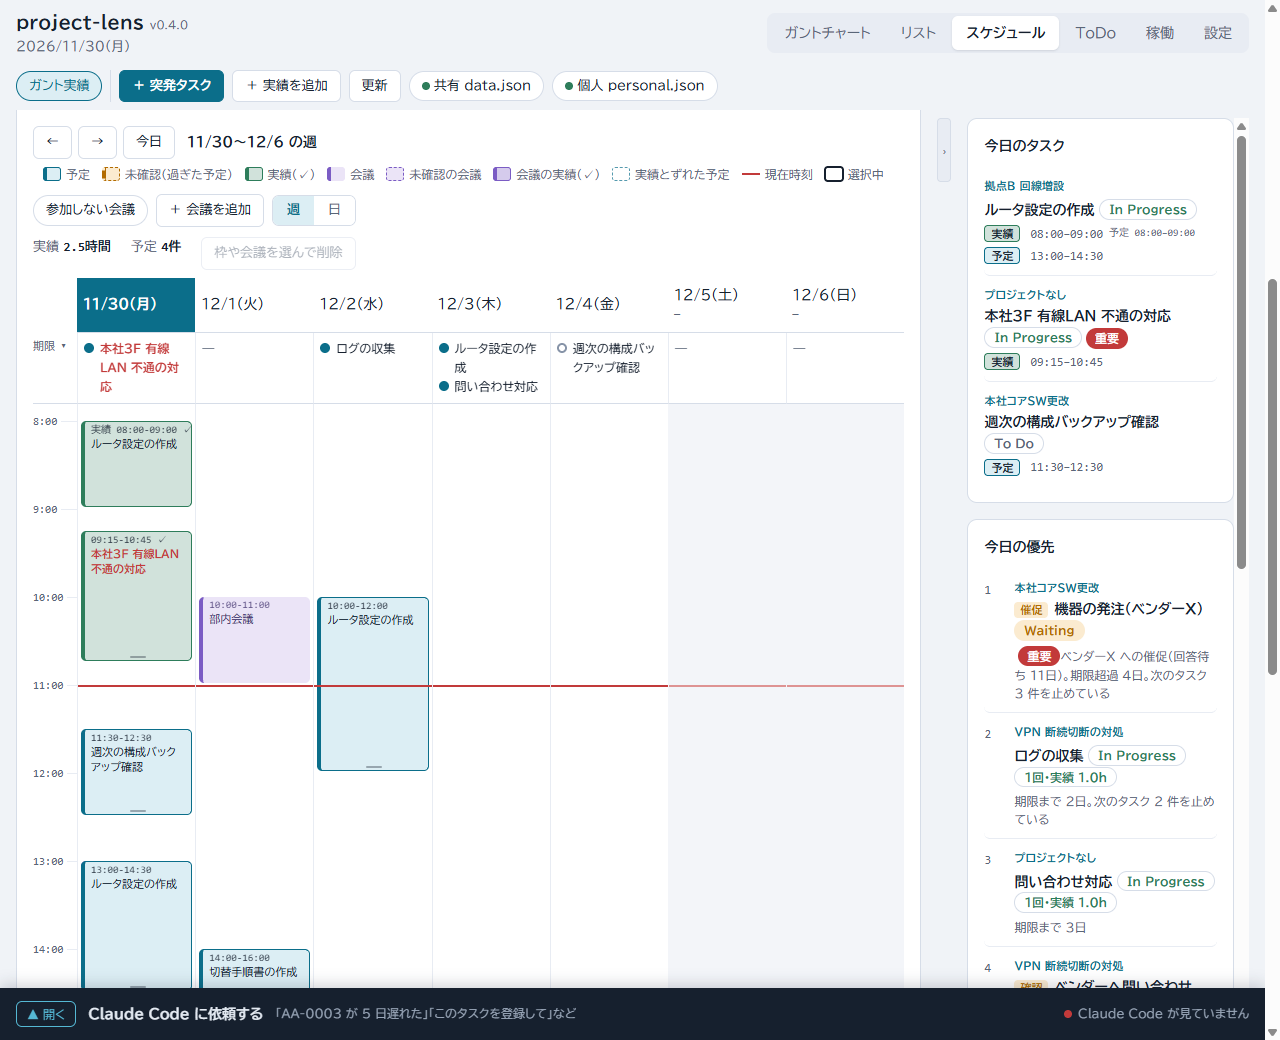
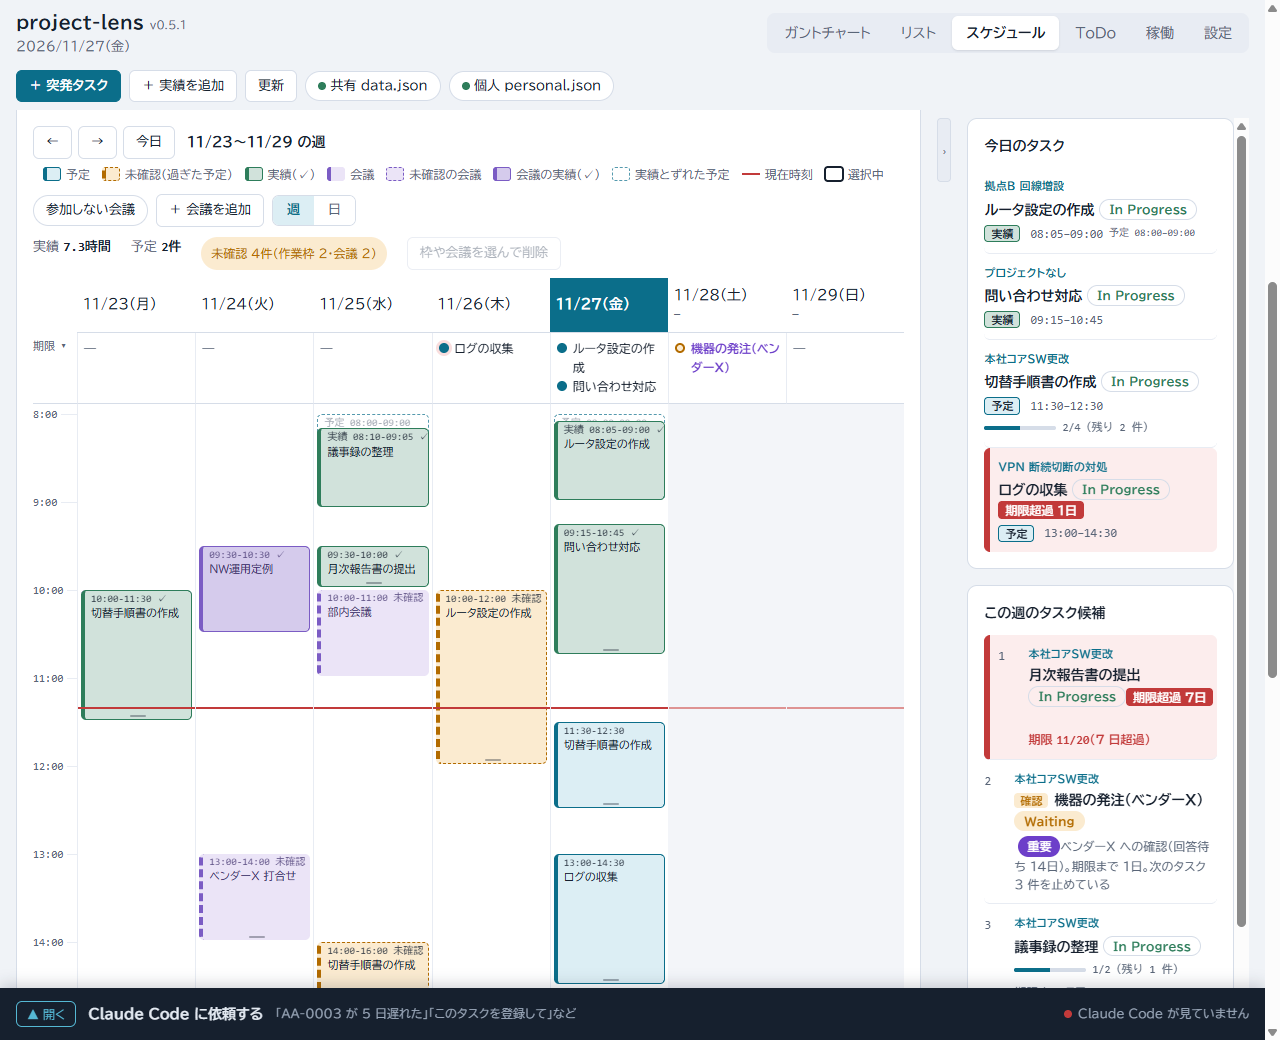
docs: README・利用ガイドの画面の説明と画像を、今の画面に合わせる (#38)
- 「今日の優先」を「この週のタスク候補」に直す
- morning-1〜3 の画像を、デモデータで撮り直す（2026-11-27 11:20 に固定）
- 「今日の優先」が文書に残らないことを試験で守る

diff --git a/tests/wording.test.js b/tests/wording.test.js
@@ -30,3 +30,12 @@ test("削除したコマンド（/project-lens:inbox・/project-lens:replan・/p
   }
   assert.deepEqual(left, []);
 });
+
+test("廃止した画面の名前（「今日の優先」）が、README・利用ガイド・図に残っていない（今は「この週のタスク候補」）", () => {
+  const files = [join(repo, "README.md"), join(repo, "docs/guide.md"), ...walk(join(repo, "docs/images")).filter((p) => p.endsWith(".svg"))];
+  const left = [];
+  for (const p of files) {
+    readFileSync(p, "utf8").split(/\r?\n/).forEach((line, i) => { if (line.includes("今日の優先")) left.push(`${relative(repo, p)}:${i + 1}`); });
+  }
+  assert.deepEqual(left, []);
+});

diff --git a/docs/guide.md b/docs/guide.md
@@ -175,19 +175,19 @@ claude plugin uninstall project-lens@project-lens --keep-data
 
 ### 毎朝の流れ
 
-画面を開いて、今日やることを決め、やった時間を実績として入れます。次の 3 枚の画像は、画像のために作った架空のデモデータ（`--sample` のサンプルデータとは別のもの）を、ファイル選択を差し替えて開いた画面です。日付は 2026-11-30、時刻は 11:20 に固定しました（URL の末尾の `?today=2026-11-30&time=11:20`）。08:00〜09:00 の「ルータ設定の作成」の枠は、時刻を過ぎた予定なので「未確認」の札が付いています。2 枚目は「週次の構成バックアップ確認」を今日の 11:30 へドラッグしたあと、3 枚目は「ルータ設定の作成」の 08:00〜09:00 を実績にしたあとです。3 枚目の画像は、旧い画面のまま（未更新）で、実績を入れた枠が実績の時刻の 1 つのブロックになる今のカレンダーと、行の「予定 HH:MM–HH:MM」の添え書きは写っていません。
+画面を開いて、今日やることを決め、やった時間を実績として入れます。次の 3 枚の画像は、画像のために作った架空のデモデータ（`--sample` のサンプルデータとは別のもの）を、ファイル選択を差し替えて開いた画面です。日付は 2026-11-27、時刻は 11:20 に固定しました（URL の末尾の `?today=2026-11-27&time=11:20`）。08:00〜09:00 の「ルータ設定の作成」の枠は、時刻を過ぎた予定なので「未確認」の札が付いています。2 枚目は「切替手順書の作成」を今日の 11:30 へドラッグしたあと、3 枚目は「ルータ設定の作成」の 08:00〜09:00 を、08:05〜09:00 の実績にしたあとです（行に、実績の時間と、元の予定の時間が並びます）。
 
 1. **「この週のタスク候補」を見る。** ガントチャートとリストの右側に、今週の未完了のタスクが、優先順（点数の高い順）に並びます（スケジュール画面も同じです）。「今日のタスク」には、今日に作業枠があるタスクが並びます。
 
-   <img src="images/morning-1-priority.png" alt="ガントチャートの画面。ヘッダーに、共有・個人ファイルの札と、ToDo を含む 6 つのタブがある。右側の「今日のタスク」に、予定・実績・未確認の札つきの枠の時間が並び、その下の「今日の優先」に、重要の印つきのタスクが優先順に並び、各行に「今日へ」のボタンがある" width="800">
+   <img src="images/morning-1-priority.png" alt="ガントチャートの画面。ヘッダーに、共有・個人ファイルの札と、ToDo を含む 6 つのタブがある。右側の「今日のタスク」に、予定・実績・未確認の札つきの枠の時間が並び、その下の「この週のタスク候補」に、未完了のタスクが優先順に並ぶ。期限超過のタスクは、赤い札と赤い背景で出る" width="800">
 
 2. **今日やるタスクを、時間枠に置く。** 「スケジュール」で、「この週のタスク候補」のタスクを今日の列へドラッグします（15 分刻み）。置いた枠は 1 時間の予定（今より前の時間に置いても予定）で、枠の端をつかんで長さを変えます。置いたタスクは、「今日のタスク」に出ます。同じタスクをもう 1 つ置くときは、「今日のタスク」の行をカレンダーへドラッグします。
 
-   <img src="images/morning-2-schedule.png" alt="スケジュールの週の画面。上の行に色の凡例（現在時刻の赤い線を含む）、日付の下に期限の行があり、「今日の優先」からドラッグした「週次の構成バックアップ確認」が、今日の 11:30〜12:30 に予定の枠として置かれた" width="800">
+   <img src="images/morning-2-schedule.png" alt="スケジュールの週の画面。上の行に色の凡例（現在時刻の赤い線を含む）、日付の下に期限の行があり、「この週のタスク候補」からドラッグした「切替手順書の作成」が、今日の 11:30〜12:30 に予定の枠として置かれた" width="800">
 
 3. **やった時間を、実績として入れる。** 「スケジュール」で、始まった予定の枠（過ぎた予定の「未確認」を含む）を押すと、実績の入力欄が、開始・終了に予定の時刻が入った状態で出ます。日付・開始・終了をやった時間に直して「実績を保存」を押すと、その予定の枠に実績が付き（予定の時刻は変わりません。カレンダーでは、その枠が実績の時刻の緑のブロック 1 つ（✓ 付き）になり、予定と時刻がずれていれば、予定の時刻に点線の影が残ります。実績が付いた予定は、未確認でなくなります）、To Do・Waiting のタスクは In Progress に変わります。実績のある枠を選ぶと「実績を更新」「実績を消す」が出ます（消しても予定の枠は残ります）。実績のある枠は、ドラッグで動かせません。予定を動かすときは、先に「実績を消す」を押します。実績のある枠を削除するときは、「実績 N 分も消えます」の確認が出ます。予定にない作業は、ヘッダーの「＋ 実績を追加」で、タスク・日付・開始・終了を入れて足します。会議は、会議を押すと、予定の枠と同じ形の実績の欄（日付は会議の日付）が出るので、開始・終了を入れて「実績を保存」を押します（実績の時刻の濃い色のブロック 1 つになります。「実績を消す」で、未確認に戻せます）。終わったタスクは、リストなどの状態の欄で Done にします。チェックリストに未完了の項目が残っていると、「残りをすべてチェックして Done にする」か「やめる」を選ぶ警告が出ます（要らない項目は、削除してから Done にします）。変更は、その場で保存されます。
 
-   <img src="images/morning-3-started.png" alt="実績を入れたあとのスケジュールの画面。「ルータ設定の作成」の 08:00〜09:00 の枠が実績（緑）に変わり、右の「今日のタスク」の行には、実績の時間と、元の予定の時間が並ぶ" width="800">
+   <img src="images/morning-3-started.png" alt="実績を入れたあとのスケジュールの画面。「ルータ設定の作成」の 08:00〜09:00 の枠が、08:05〜09:00 の実績（緑）に変わり、右の「今日のタスク」の行には、実績の時間と、元の予定の時間が並ぶ" width="800">
 
 ### 優先順位の決まり方
 

diff --git a/README.md b/README.md
@@ -40,9 +40,9 @@
 
 | 1. 「この週のタスク候補」を見る | 2. 時間枠へドラッグする | 3. 実績を入れる |
 |---|---|---|
-| <img src="docs/images/morning-1-priority.png" alt="ガントチャートの画面。ヘッダーに、共有・個人ファイルの札と、ToDo を含む 6 つのタブがある。右側の「今日のタスク」に、予定・実績・未確認の札つきの枠の時間が並び、その下の「今日の優先」に、重要の印つきのタスクが優先順に並び、各行に「今日へ」のボタンがある" width="260"> | <img src="docs/images/morning-2-schedule.png" alt="スケジュールの週の画面。上の行に色の凡例（現在時刻の赤い線を含む）、日付の下に期限の行があり、「今日の優先」からドラッグした「週次の構成バックアップ確認」が、今日の 11:30〜12:30 に予定の枠として置かれた" width="260"> | <img src="docs/images/morning-3-started.png" alt="実績を入れたあとのスケジュールの画面。「ルータ設定の作成」の 08:00〜09:00 の枠が実績（緑）に変わり、右の「今日のタスク」の行には、実績の時間と、元の予定の時間が並ぶ" width="260"> |
+| <img src="docs/images/morning-1-priority.png" alt="ガントチャートの画面。ヘッダーに、共有・個人ファイルの札と、ToDo を含む 6 つのタブがある。右側の「今日のタスク」に、予定・実績・未確認の札つきの枠の時間が並び、その下の「この週のタスク候補」に、未完了のタスクが優先順に並ぶ。期限超過のタスクは、赤い札と赤い背景で出る" width="260"> | <img src="docs/images/morning-2-schedule.png" alt="スケジュールの週の画面。上の行に色の凡例（現在時刻の赤い線を含む）、日付の下に期限の行があり、「この週のタスク候補」からドラッグした「切替手順書の作成」が、今日の 11:30〜12:30 に予定の枠として置かれた" width="260"> | <img src="docs/images/morning-3-started.png" alt="実績を入れたあとのスケジュールの画面。「ルータ設定の作成」の 08:00〜09:00 の枠が、08:05〜09:00 の実績（緑）に変わり、右の「今日のタスク」の行には、実績の時間と、元の予定の時間が並ぶ" width="260"> |
 
-「この週のタスク候補」のタスクを、スケジュールの今日の列へドラッグすると、1 時間の予定の枠が置かれます（15 分刻み）。長さは、枠の下端をつかんで変えます。詳しい手順は、[利用ガイド](docs/guide.md#毎朝の流れ)にあります。1・2・3 枚目の画像は、旧い画面のまま（未更新）です（1 枚目の「今日の優先」は、今は「この週のタスク候補」です）（今は、実績を入れた枠が、実績の時刻の 1 つのブロックになります）。
+「この週のタスク候補」のタスクを、スケジュールの今日の列へドラッグすると、1 時間の予定の枠が置かれます（15 分刻み）。長さは、枠の下端をつかんで変えます。詳しい手順は、[利用ガイド](docs/guide.md#毎朝の流れ)にあります。実績を入れた枠は、実績の時刻の 1 つのブロックになります。
 
 ### 優先順位の決まり方
 
